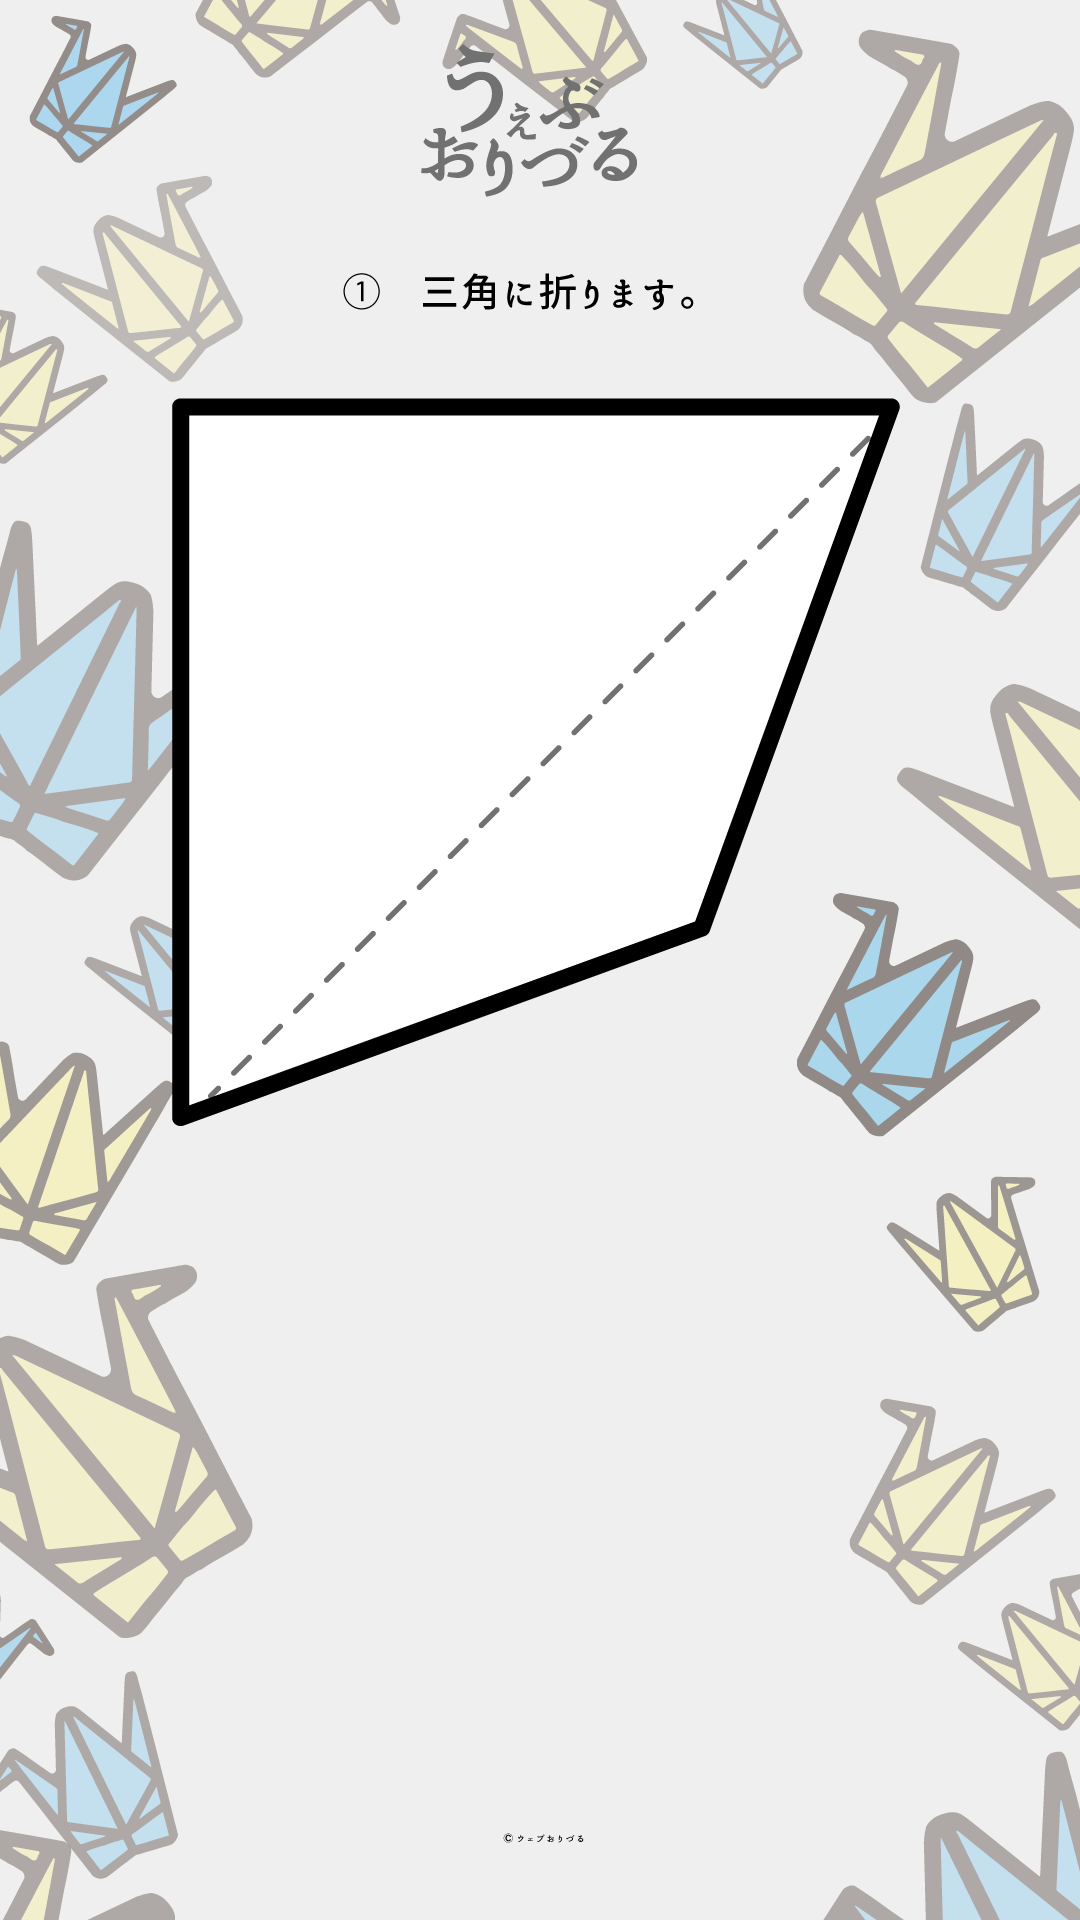
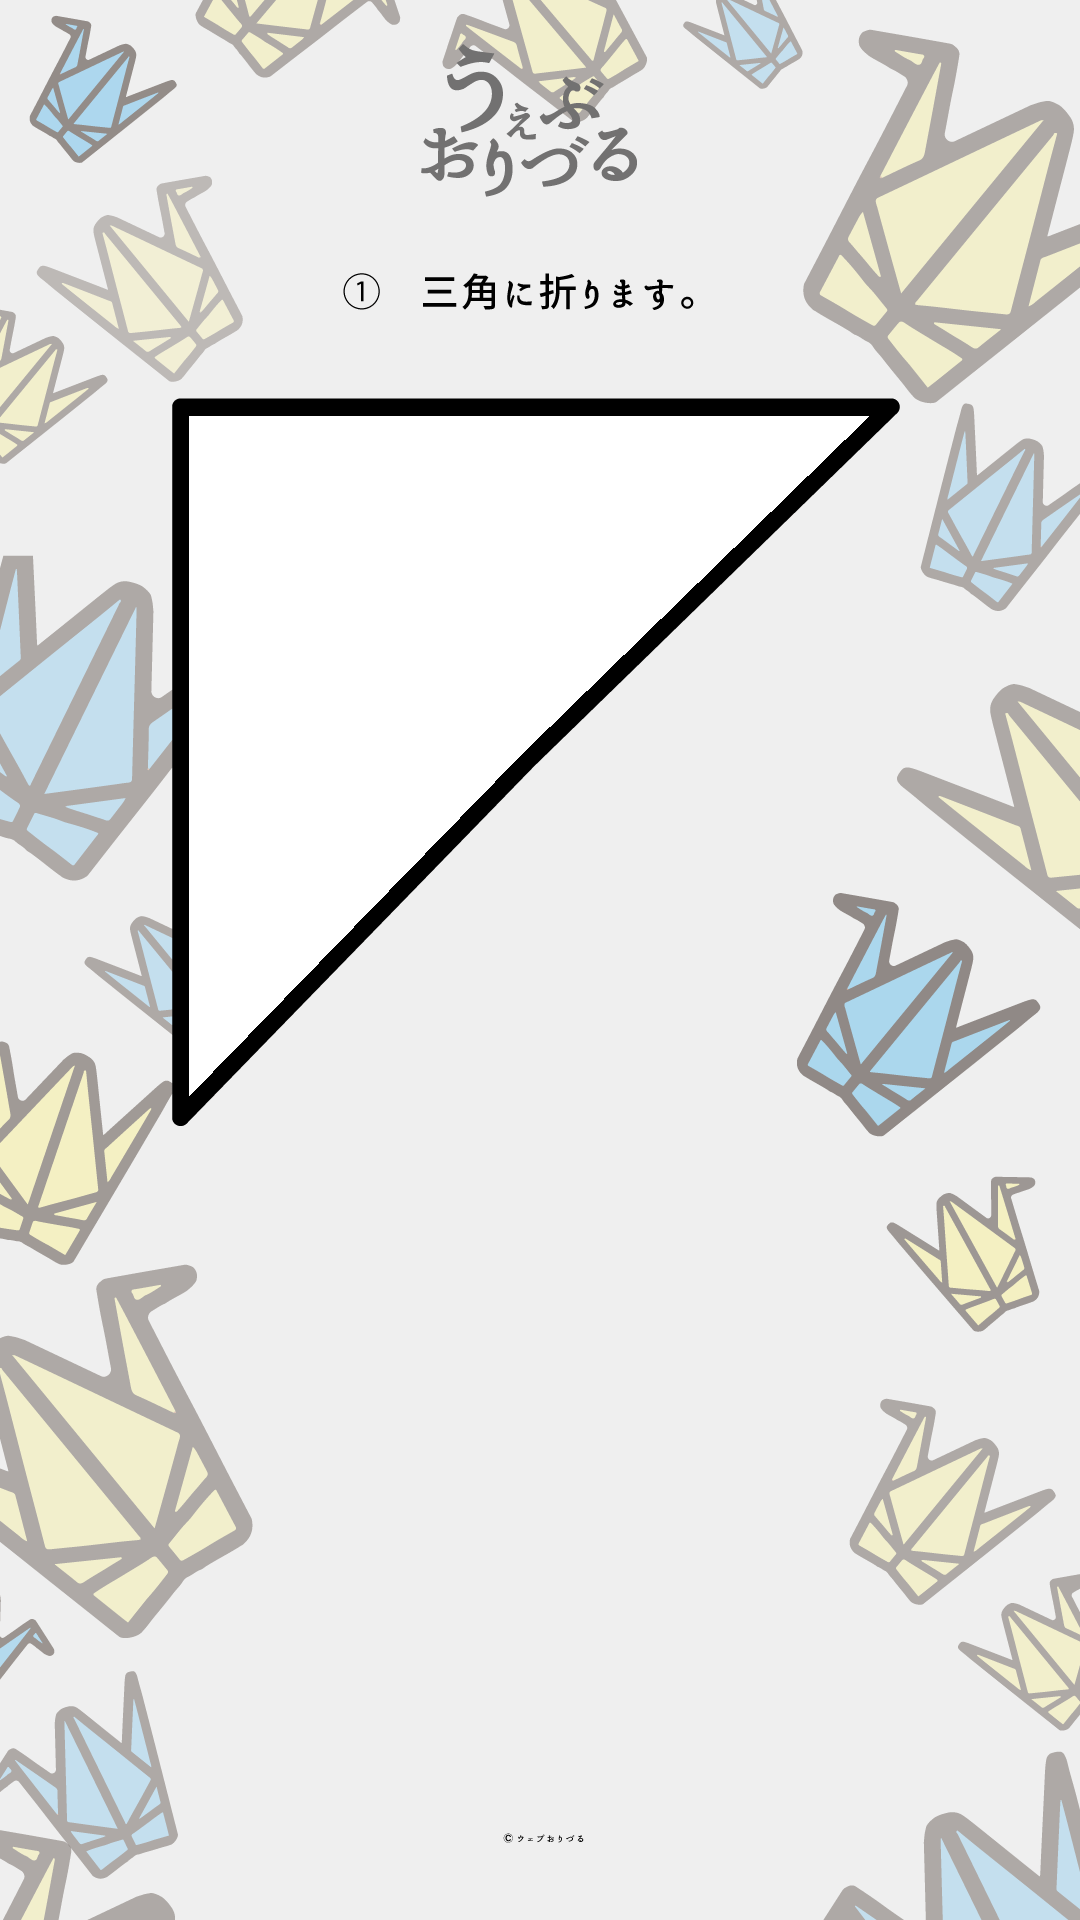
update

diff --git a/js/Paper.js b/js/Paper.js
@@ -16,26 +16,11 @@ class Paper {
     
     loadImage(num){
         if(num == 1){
-            /*
             img[ 0] = creatImage("play/play_01_001");
             img[ 1] = creatImage("play/play_01_001");
             img[ 2] = creatImage("play/play_01_002");
             img[ 3] = creatImage("play/play_01_003");
             img[ 4] = creatImage("play/play_01_004");
-            img[ 5] = creatImage("play/play_01_005");
-            img[ 6] = creatImage("play/play_01_006");
-            img[ 7] = creatImage("play/play_01_007");
-            img[ 8] = creatImage("play/play_01_008");
-            img[ 9] = creatImage("play/play_01_009");
-            img[10] = creatImage("play/play_01_010");
-            img[11] = creatImage("play/play_01_011");
-            img[12] = creatImage("play/play_01_012");
-             */
-            img[ 0] = creatImage("play/play_01_001");
-            img[ 1] = creatImage("play/play_01_001");
-            img[ 2] = creatImage("play/play_01_004");
-            img[ 3] = creatImage("play/play_01_008");
-            img[ 4] = creatImage("play/play_01_012");
         }
         
         
@@ -56,20 +41,6 @@ class Paper {
         this.num++;
         this.touch_start = false;
         delete this.img;
-        /*
-        this.setNext( 1,890,1100,850,1050);
-        this.setNext( 2,this.x2,this.y2,770,1000);
-        this.setNext( 3,this.x2,this.y2,700,930);
-        this.setNext( 4,this.x2,this.y2,630,850);
-        this.setNext( 5,this.x2,this.y2,600,820);
-        this.setNext( 6,this.x2,this.y2,490,720);
-        this.setNext( 7,this.x2,this.y2,430,660);
-        this.setNext( 8,this.x2,this.y2,380,600);
-        this.setNext(10,this.x2,this.y2,310,570);
-        this.setNext(11,this.x2,this.y2,250,480);
-        this.setNext(12,this.x2,this.y2,180,410);
-        this.setNext(13,this.x2,this.y2,180,410);
-         */
         this.setNext(1,890,1100,700,930);
         this.setNext(2,this.x2,this.y2,430,660);
         this.setNext(3,this.x2,this.y2,180,410);

diff --git a/js/Oriduru.js b/js/Oriduru.js
@@ -6,7 +6,7 @@ class Oriduru {
         this.vx = 0;//Math.floor(Math.random()*3)-1;
         this.vy = 10;
         this.size = 250;
-        this.rotate =Math.floor(Math.random()*360);
+        this.rotate = 0;//Math.floor(Math.random()*360);
         this.exist = true;
     }
     
